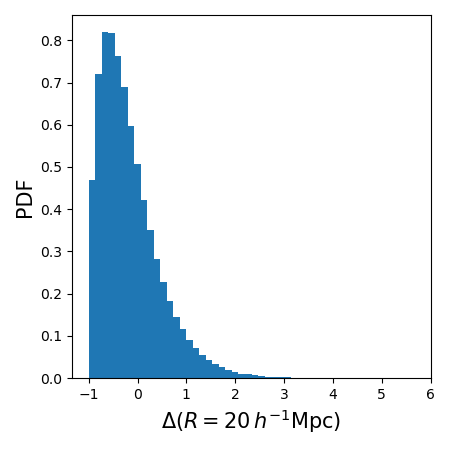
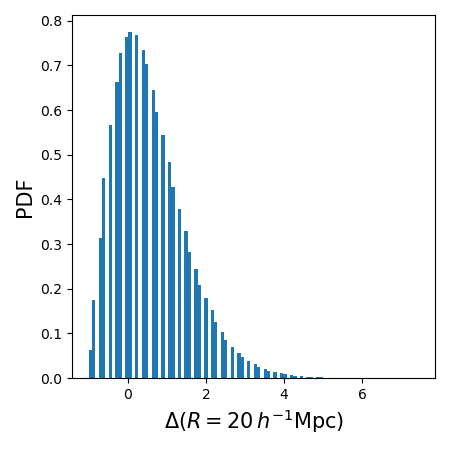
Update

diff --git a/call_julia.py b/call_julia.py
@@ -3,7 +3,7 @@ import numpy as np
 import matplotlib.pyplot as plt
 from os import environ
 
-environ['JULIA_NUM_THREADS'] = '1'
+environ['JULIA_NUM_THREADS'] = '4'
 
 # import Julia modules
 jl = Julia(compiled_modules=False)
@@ -25,9 +25,11 @@ Main.rmax = rmax
 # compute density PDF using Julia module
 delta = jl.eval("compute_filtered_density(data, box_size, rmax)")
 
+print(np.shape(delta))
+
 # plot the results
 fig, ax = plt.subplots(figsize=(4.5, 4.5))
-ax.hist(delta, bins=50, density=True)
+ax.hist(delta, bins=100, density=True)
 
 ax.set_xlabel(r'$\Delta(R = 20\, h^{-1}{\rm Mpc})$', fontsize=15)
 ax.set_ylabel('PDF', fontsize=15)
